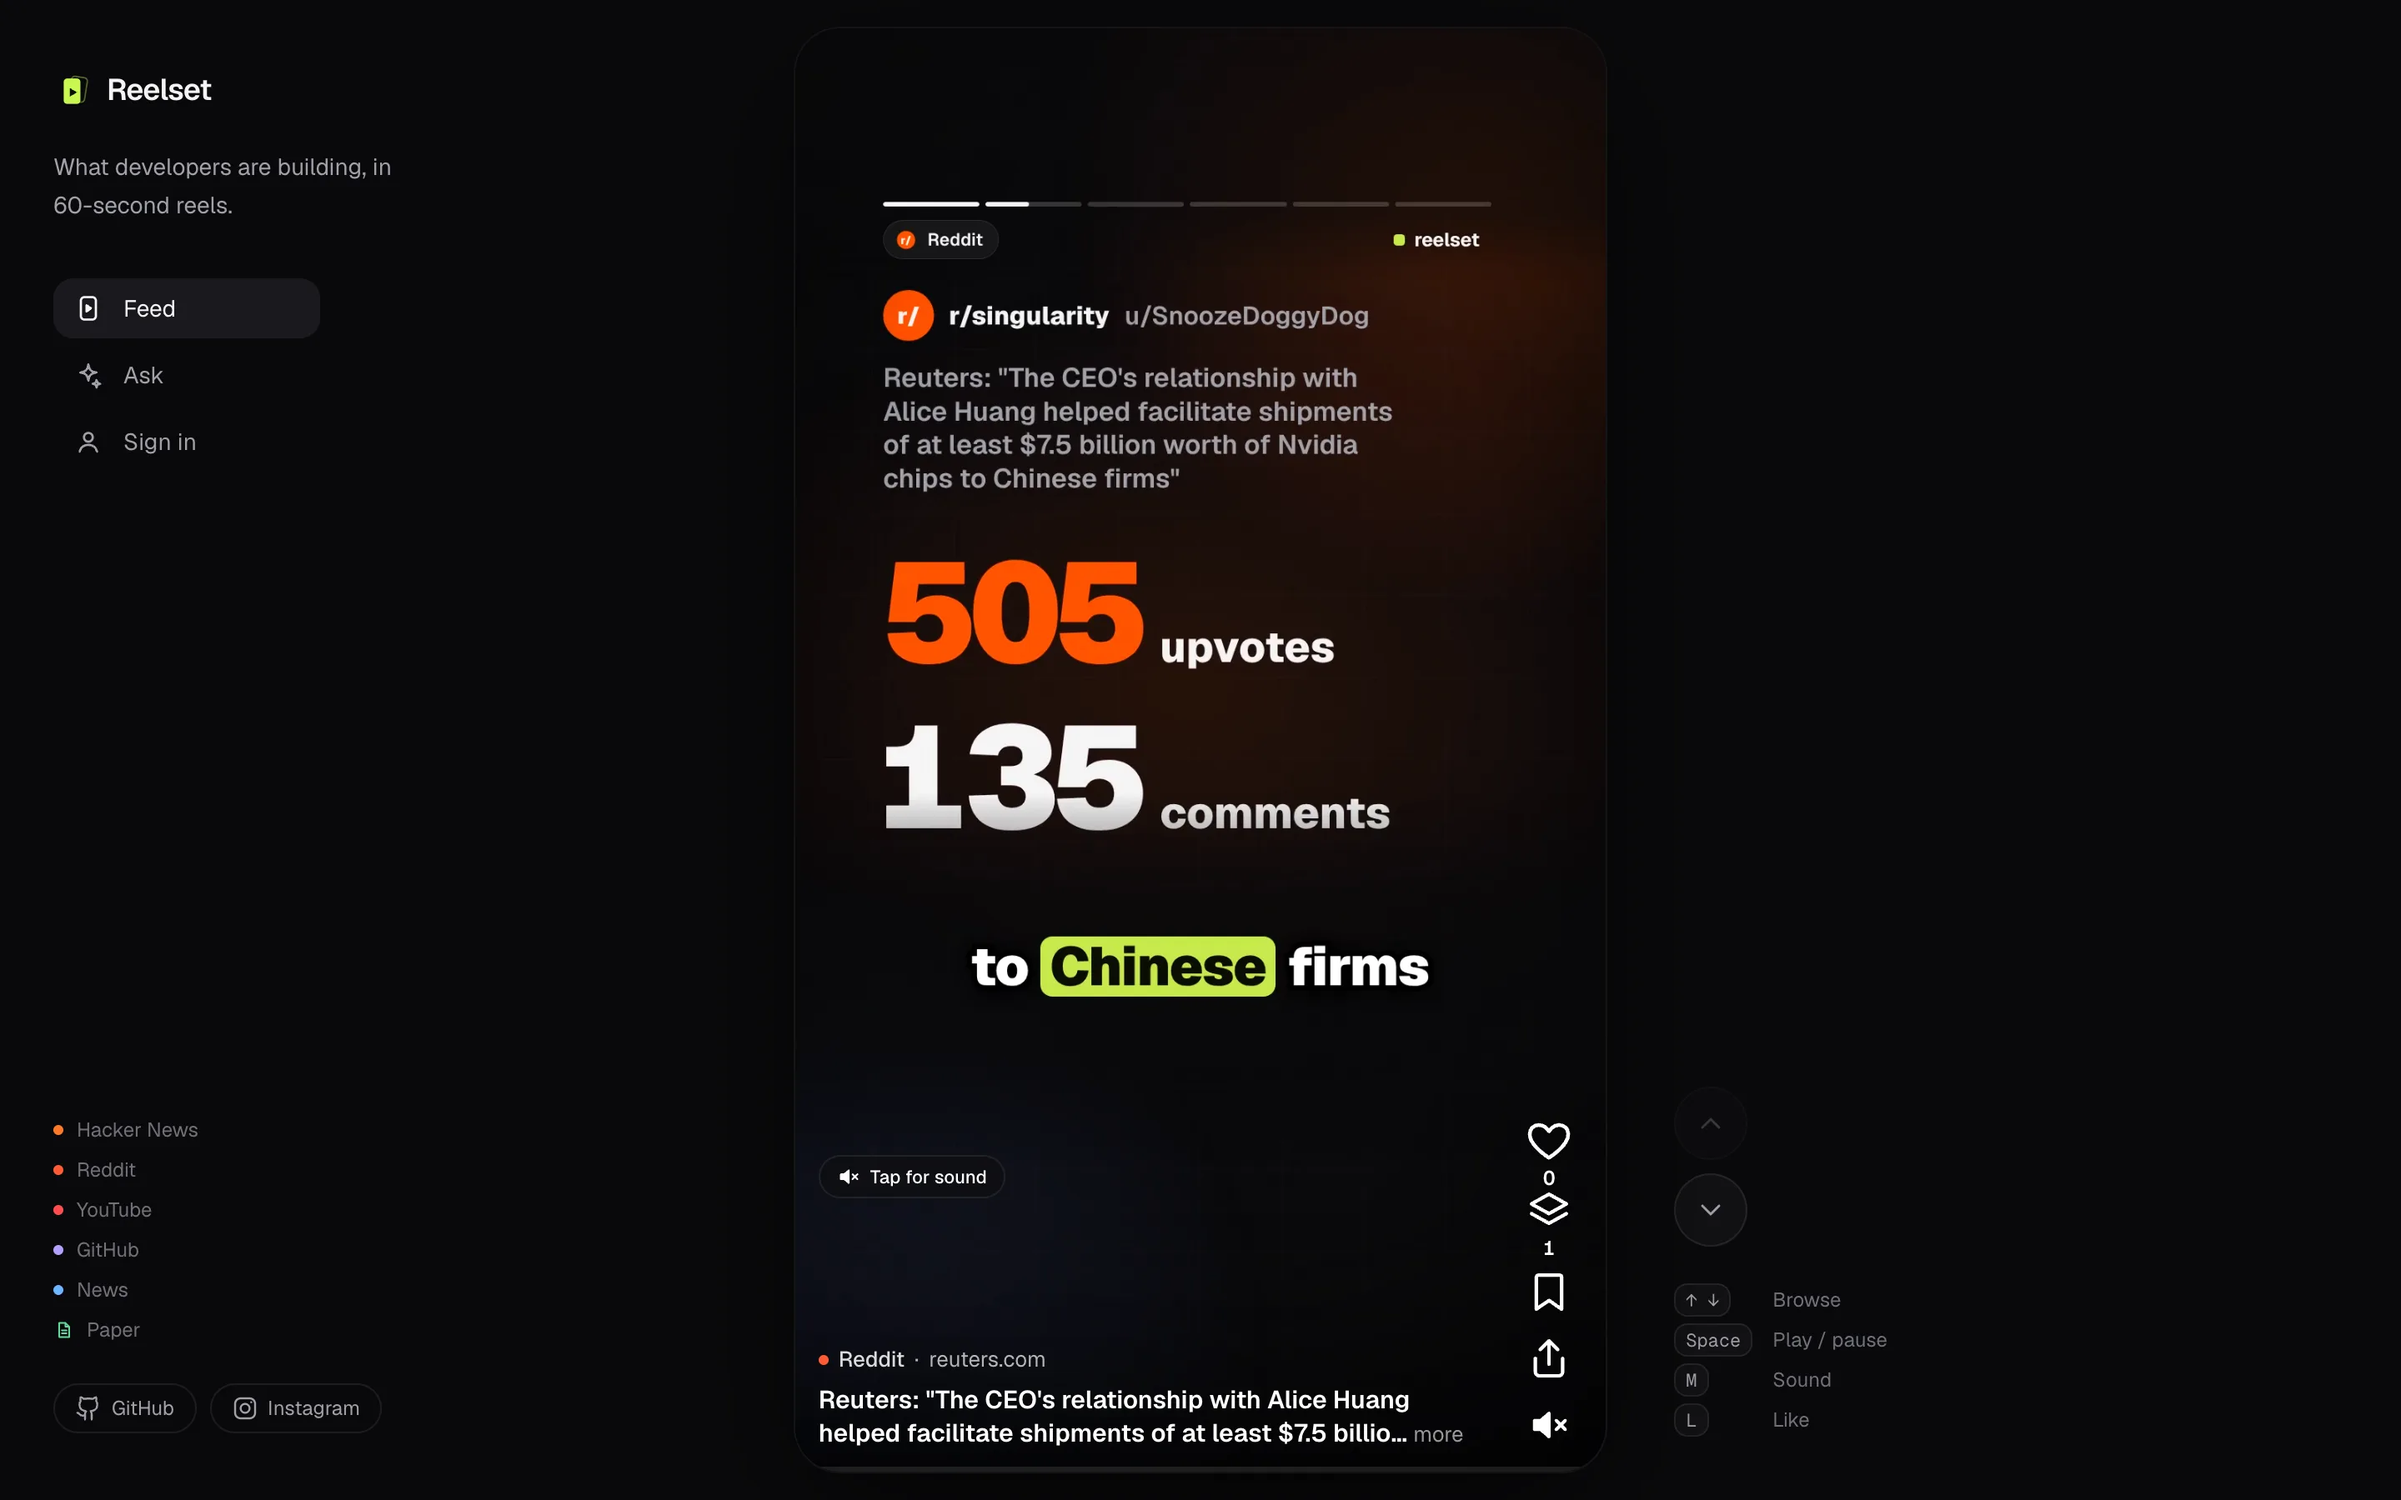
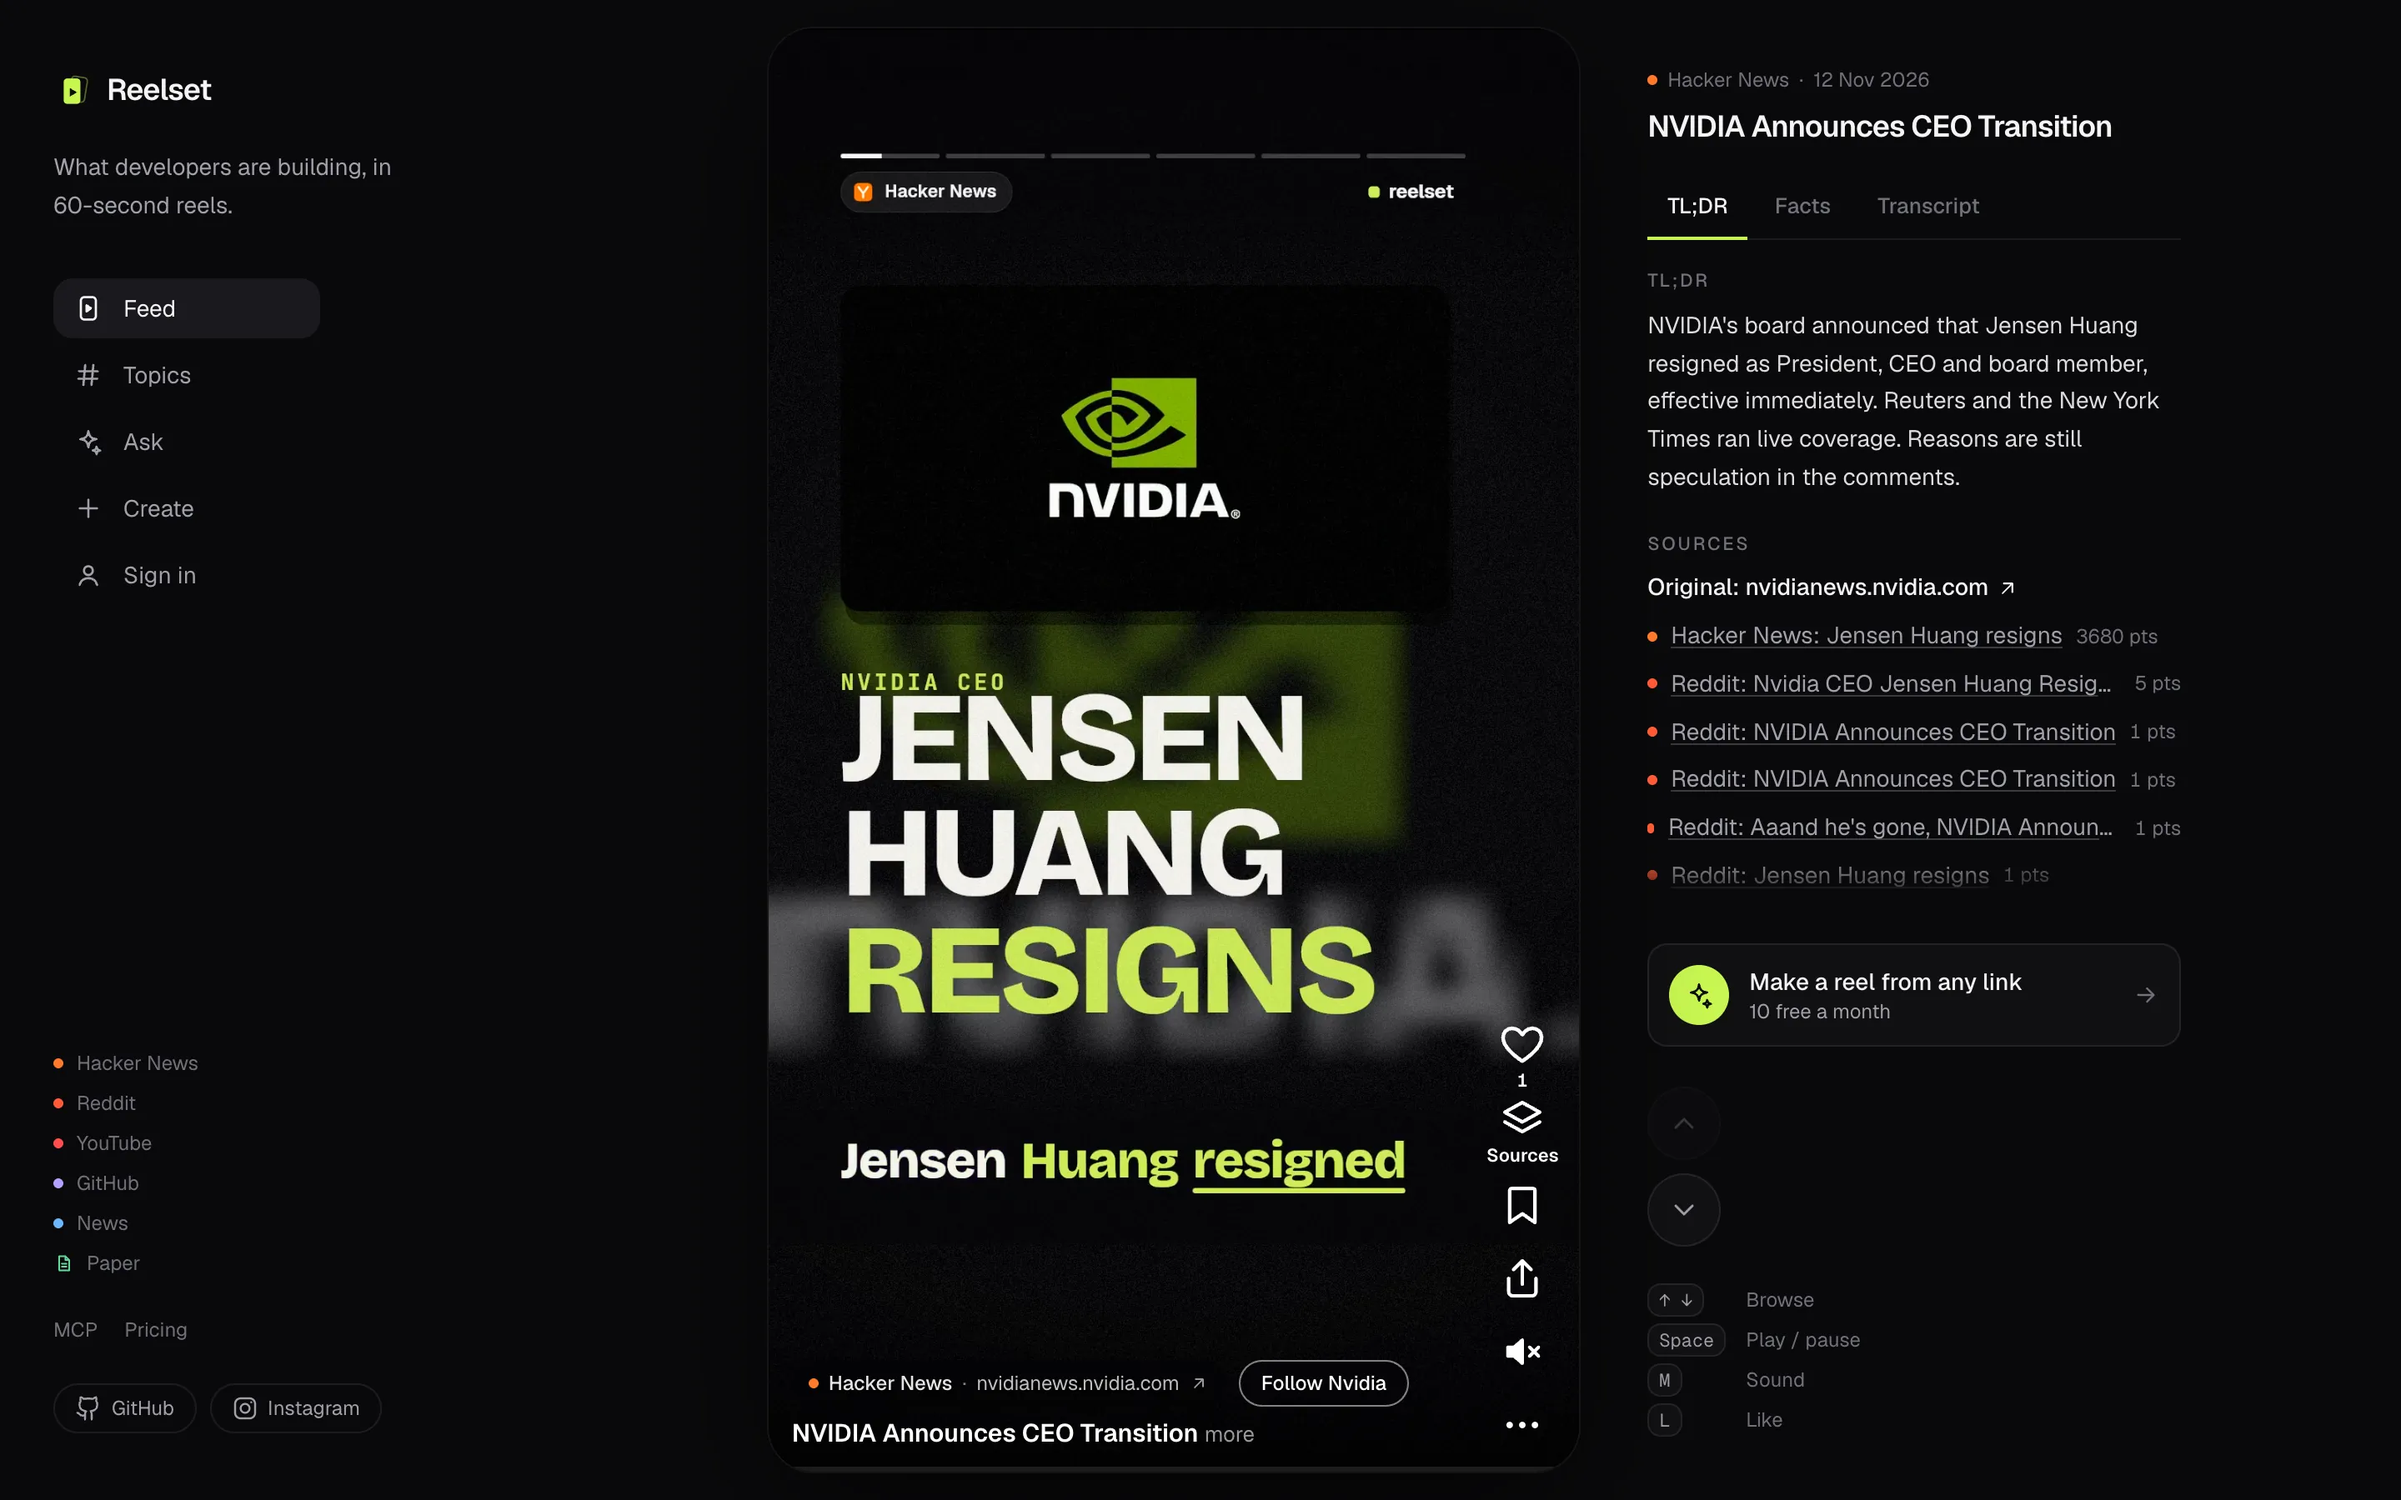
Instagram handle is @reelset_app; README shows the newest reels and the Create page

diff --git a/workers/render/container/skia/src/screens/core.ts b/workers/render/container/skia/src/screens/core.ts
@@ -422,7 +422,7 @@ export const EndCard: Screen = {
     }
     const q = eb(pr(t, 0.7, 0.4), 1.8)
     if (q > 0) {
-      const label = 'Follow @reelset.app'
+      const label = 'Follow @reelset_app'
       const w = measure(label, 'bold', 40) + 80
       c.save()
       c.translate(z.x + w / 2, y + 45)

diff --git a/apps/web/src/lib/links.ts b/apps/web/src/lib/links.ts
@@ -1,2 +1,2 @@
 export const GITHUB_URL = 'https://github.com/ReelSet/reelset'
-export const INSTAGRAM_URL = 'https://www.instagram.com/reelset.app/'
+export const INSTAGRAM_URL = 'https://www.instagram.com/reelset_app/'

diff --git a/apps/web/src/components/ui/SocialLinks.tsx b/apps/web/src/components/ui/SocialLinks.tsx
@@ -11,7 +11,7 @@ const LINKS = [
   {
     href: INSTAGRAM_URL,
     label: 'Instagram',
-    title: 'Follow @reelset.app on Instagram',
+    title: 'Follow @reelset_app on Instagram',
     Icon: InstagramIcon,
   },
 ]

diff --git a/README.md b/README.md
@@ -4,17 +4,17 @@ What developers are building, in 60-second reels.
 
 Reelset ingests interesting developer projects, turns them into short vertical reels, and serves them in a reader app.
 
-Try it at [reelset.app](https://reelset.app) · follow on [Instagram](https://www.instagram.com/reelset.app/)
+Try it at [reelset.app](https://reelset.app) · follow on [Instagram](https://www.instagram.com/reelset_app/)
 
 <p align="center">
-  <a href="https://reelset.app"><img src="docs/screenshots/desktop.webp" alt="Reelset feed on desktop: a Reddit thread turned into a reel showing 505 upvotes and 135 comments" width="100%"></a>
+  <a href="https://reelset.app/r/nvidia-announces-ceo-transition-9b79e977"><img src="docs/screenshots/desktop.webp" alt="Reelset on desktop: a Hacker News story turned into a reel, 'Jensen Huang resigns', with the TL;DR and sources beside it" width="100%"></a>
 </p>
 
 <p align="center">
-  <img src="docs/screenshots/reel-planner.webp" alt="Reel of a YouTube coding-model review with its view count" width="24%">
-  <img src="docs/screenshots/reel-youtube.webp" alt="Reel of a YouTube video about weight-space programming with its view count" width="24%">
-  <img src="docs/screenshots/reel-ollama.webp" alt="Reel about running a free local AI model with Ollama" width="24%">
-  <img src="docs/screenshots/ask.webp" alt="Ask page: ask what developers are building, answers cite the feed" width="24%">
+  <a href="https://reelset.app/r/222cda38"><img src="docs/screenshots/reel-reddit.webp" alt="Reel of an r/ClaudeAI post: Fable 5.2 painting in MS Paint" width="24%"></a>
+  <a href="https://reelset.app/r/3693b6b4"><img src="docs/screenshots/reel-youtube.webp" alt="Reel of a YouTube video: one prompt got Claude Code to build a cinematic website" width="24%"></a>
+  <a href="https://reelset.app/r/89c3a1dd"><img src="docs/screenshots/reel-news.webp" alt="Reel of a GitHub blog post: Git patched six vulnerabilities" width="24%"></a>
+  <a href="https://reelset.app/create"><img src="docs/screenshots/create.webp" alt="Create page: turn any link into a reel, 1,000 free credits every month" width="24%"></a>
 </p>
 
 ## Sources
@@ -36,15 +36,15 @@ turned into a TLDR and a reel script before rendering.
 
 ## Layout
 
-| Path                                   | What it is                                                          |
-| -------------------------------------- | ------------------------------------------------------------------- |
-| `apps/web`                             | Next.js app (reader + admin), deployed on Vercel                    |
-| `workers/ingest`                       | Cloudflare Worker that discovers and ingests projects               |
+| Path                                   | What it is                                                               |
+| -------------------------------------- | ------------------------------------------------------------------------ |
+| `apps/web`                             | Next.js app (reader + admin), deployed on Vercel                         |
+| `workers/ingest`                       | Cloudflare Worker that discovers and ingests projects                    |
 | `workers/render`                       | Cloudflare Worker + container that renders reels (Skia renderer, Python) |
-| `packages/core`                        | Shared database schema, migrations and types                        |
-| `scripts/smoke`, `scripts/maintenance` | Smoke tests and maintenance scripts                                 |
-| `supabase`                             | Supabase config and auth email templates                            |
-| `docs`                                 | Infra notes and contracts                                           |
+| `packages/core`                        | Shared database schema, migrations and types                             |
+| `scripts/smoke`, `scripts/maintenance` | Smoke tests and maintenance scripts                                      |
+| `supabase`                             | Supabase config and auth email templates                                 |
+| `docs`                                 | Infra notes and contracts                                                |
 
 ## Local development
 
